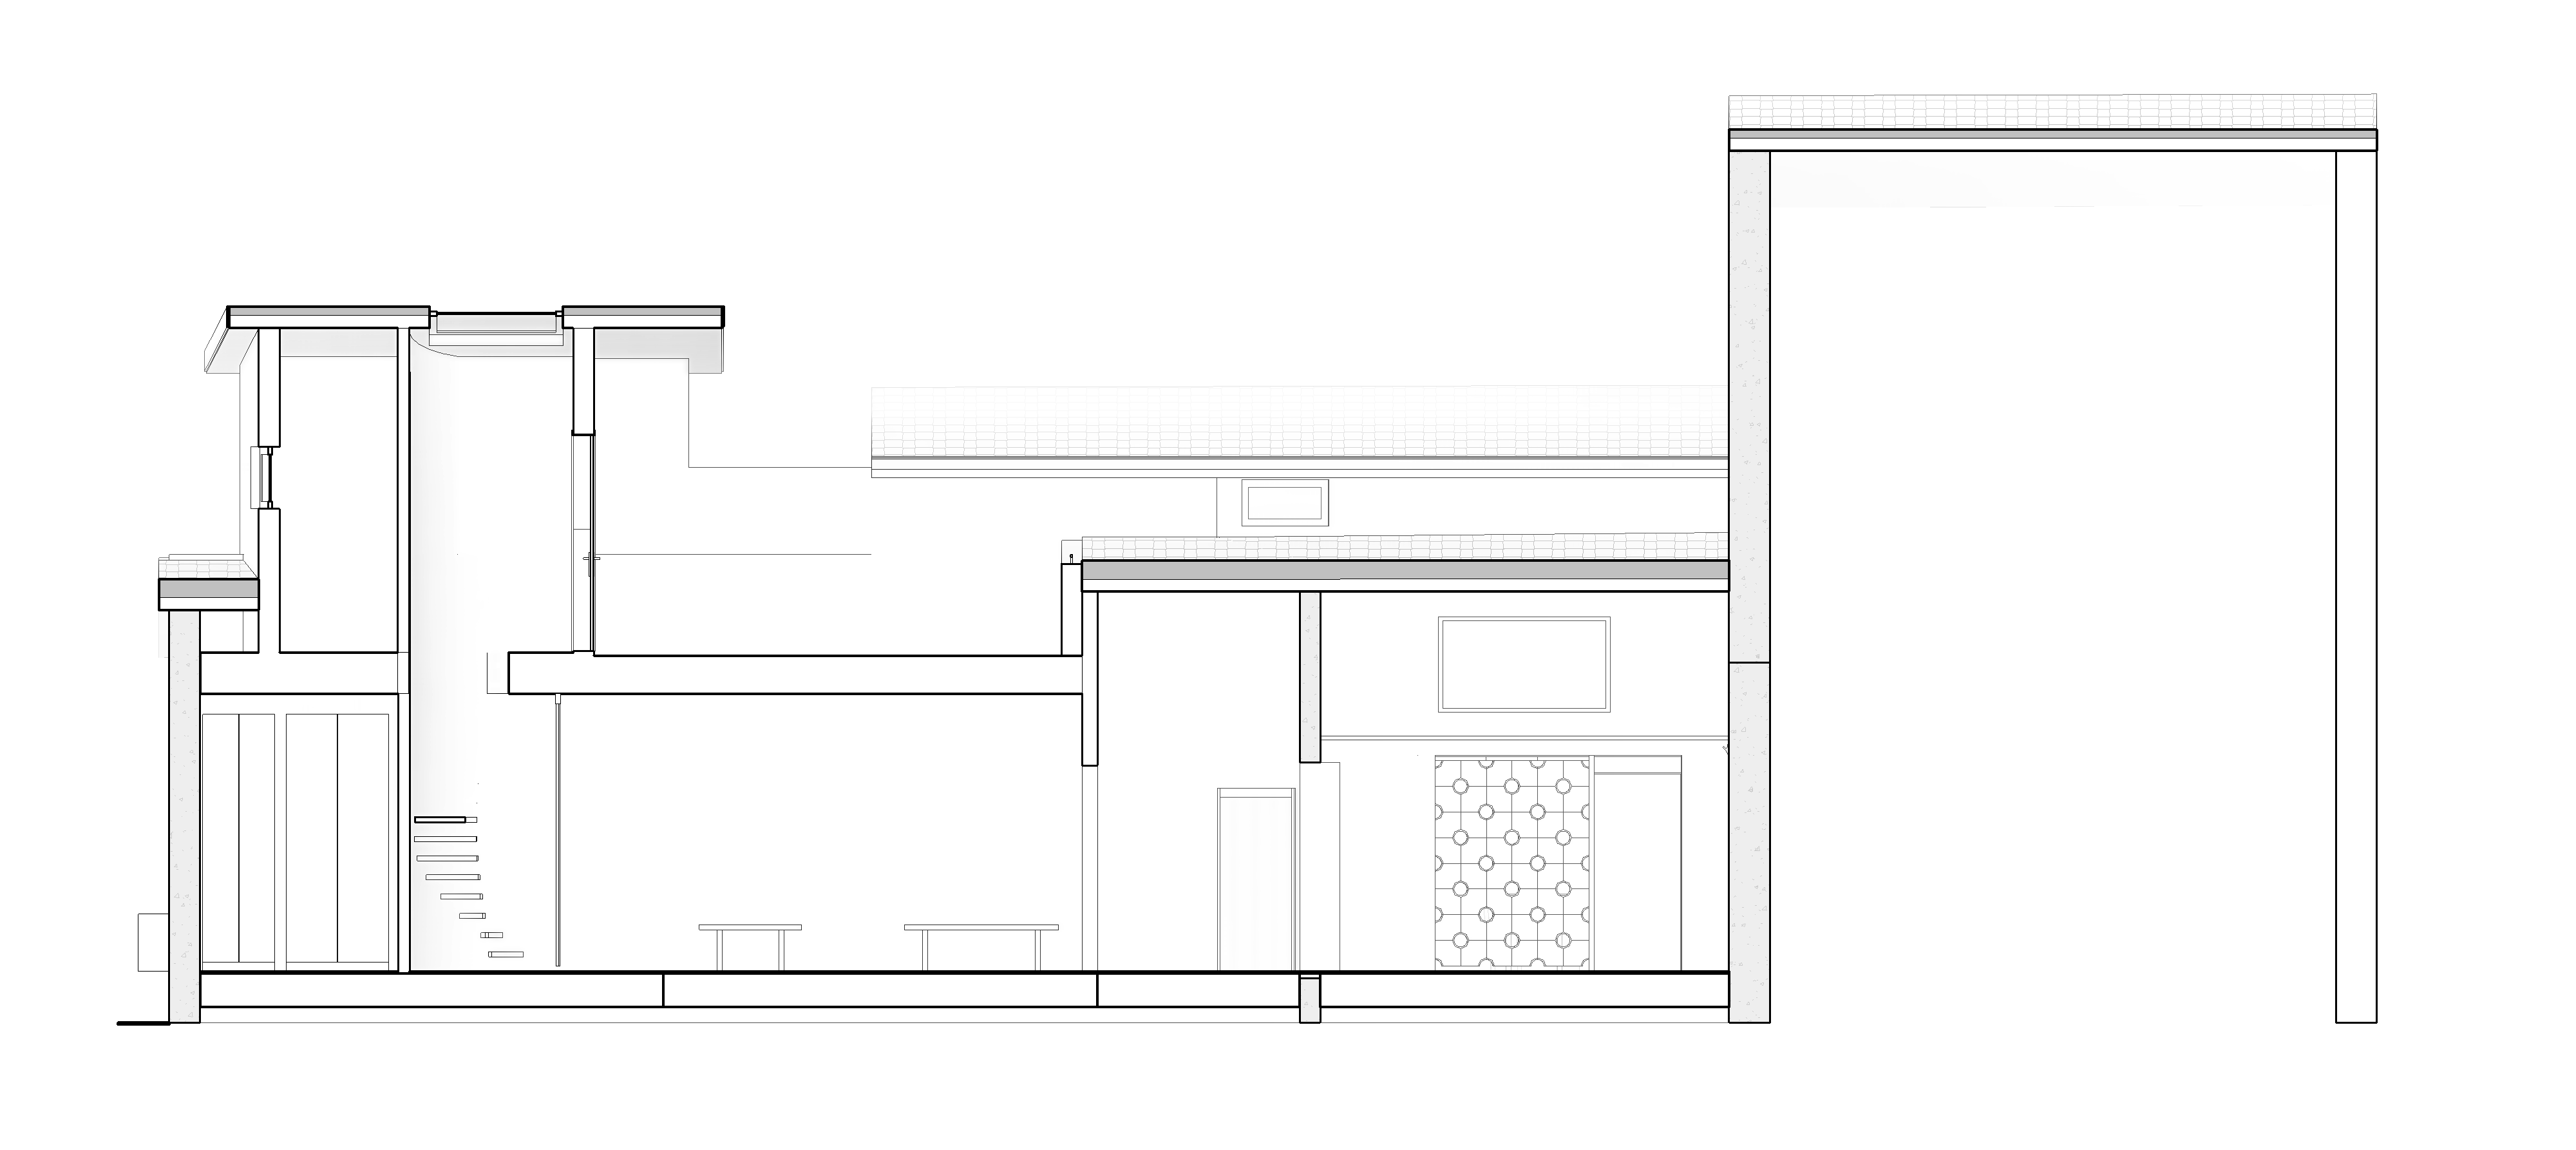
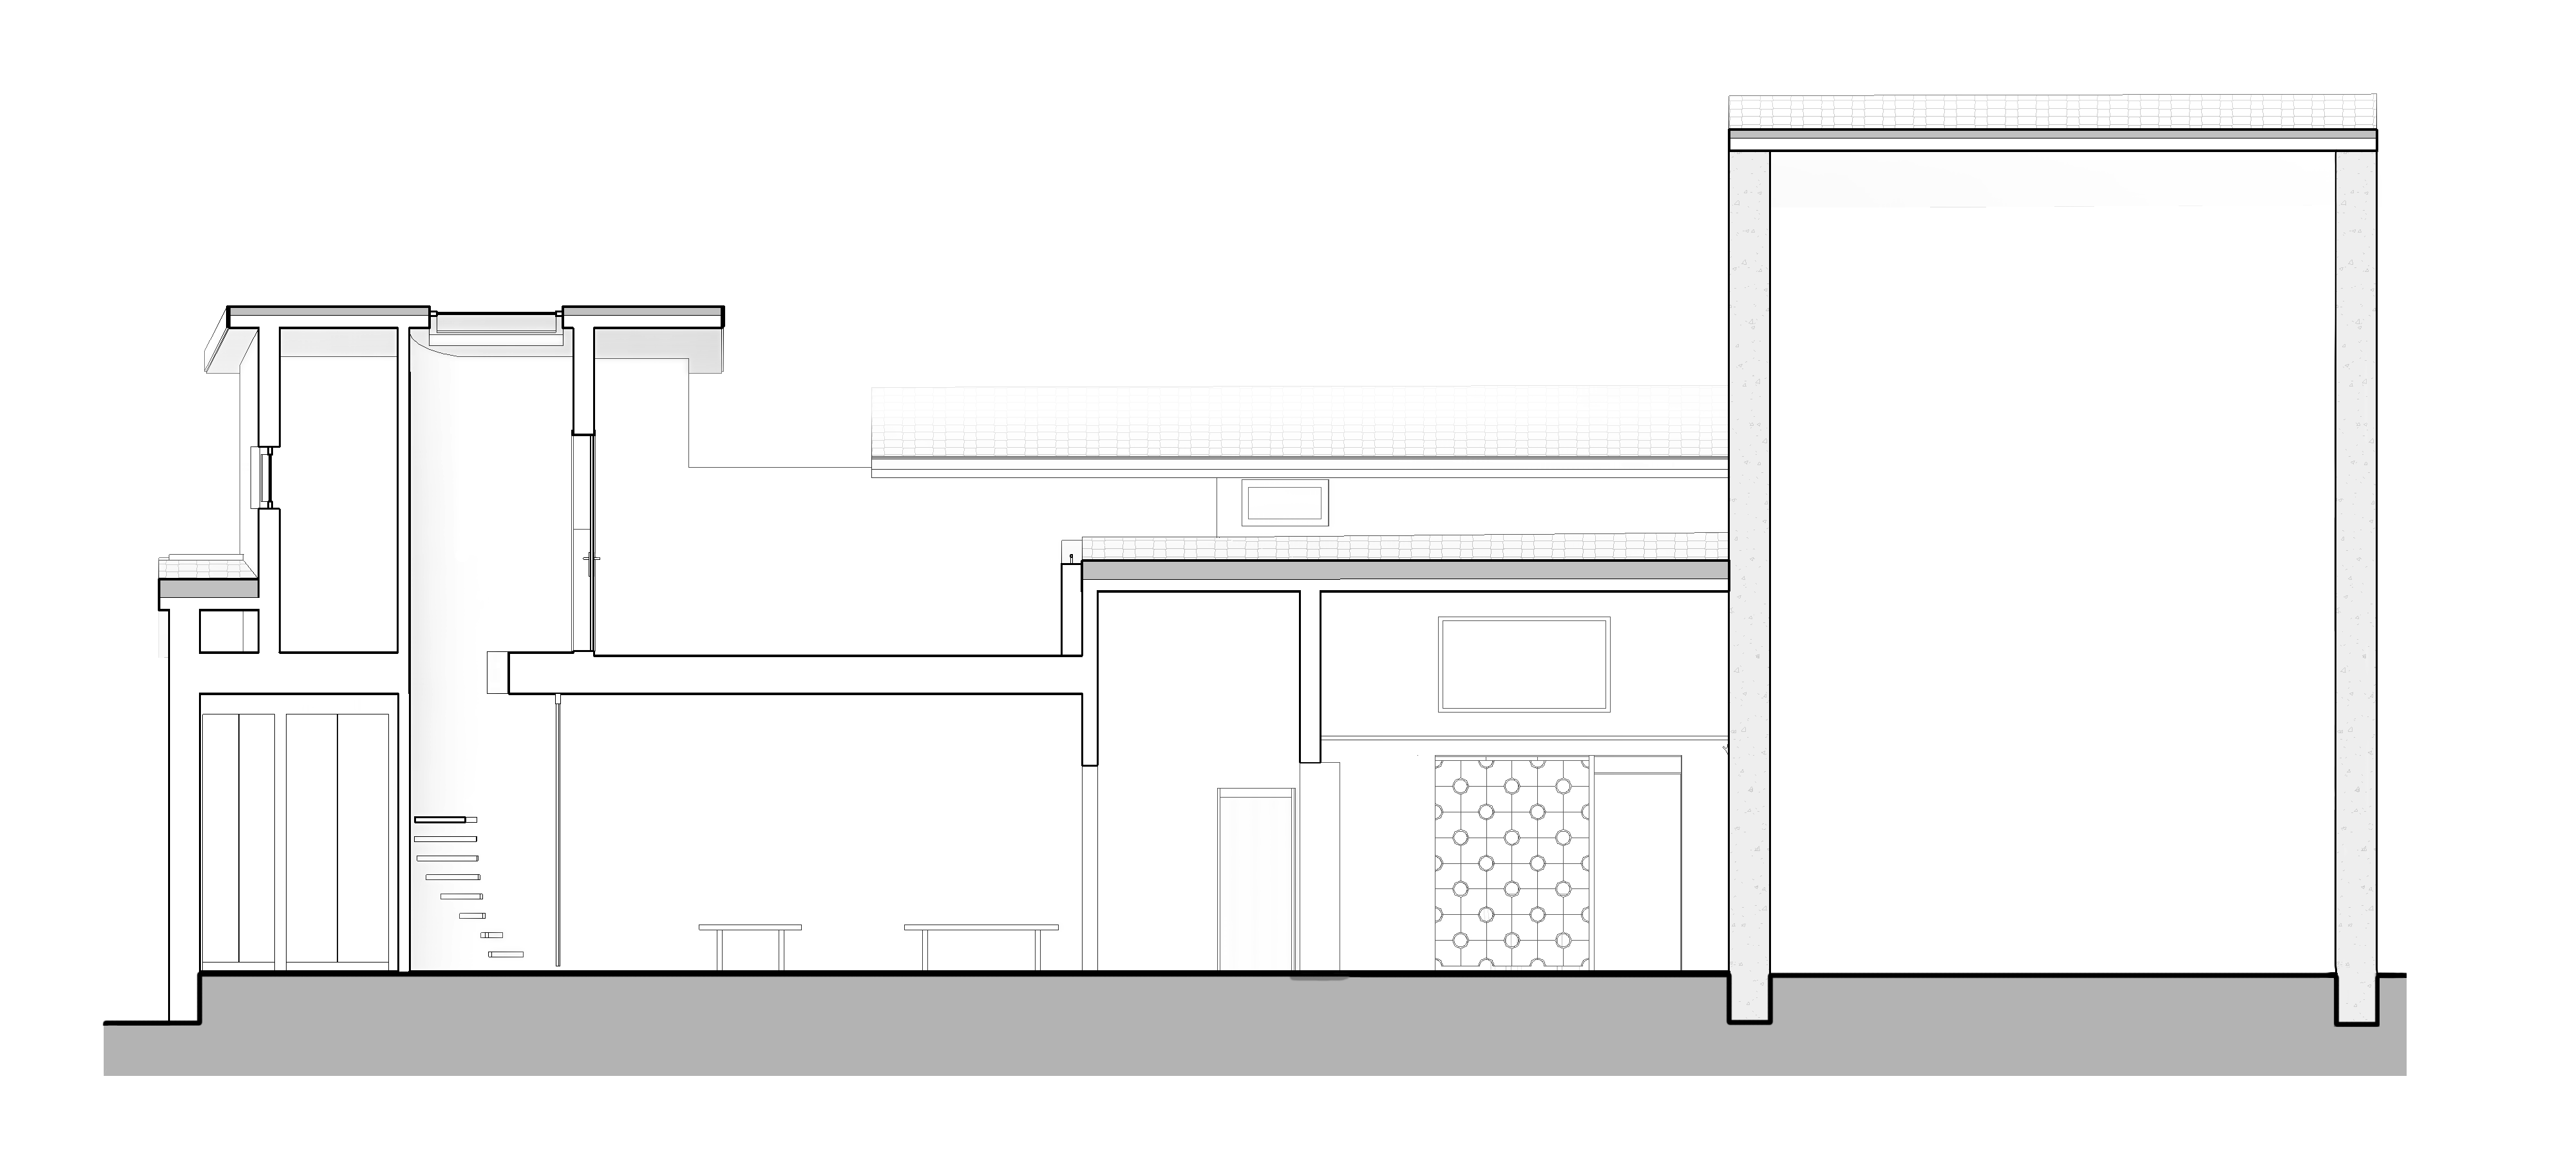
Add new renders and update sections - Maison Versilia
Aggiunti i render sala2 e matrimoniale accanto al salotto nella
galleria di progetto; aggiornati i tre disegni di sezione
(longitudinale, trasversale bagno, trasversale ingresso).

Changed region(s): [[0.0312, 0.8319, 0.9375, 0.9552]]

diff --git a/progetti/maison-versilia.html b/progetti/maison-versilia.html
@@ -349,6 +349,14 @@ nav_active: progetti
             <img src="../immagini/progetti/maison-versilia/progetto_rendering_salotto.png" alt="Rendering del soggiorno di progetto">
           </div>
 
+          <div class="gallery-item gallery-item--photo">
+            <img src="../immagini/progetti/maison-versilia/progetto_rendering_sala2.png" alt="Rendering della sala di progetto">
+          </div>
+
+          <div class="gallery-item gallery-item--photo">
+            <img src="../immagini/progetti/maison-versilia/progetto_rendering_matrimoniale.png" alt="Rendering della camera matrimoniale di progetto">
+          </div>
+
           <figure class="gallery-item gallery-doc">
             <img src="../immagini/progetti/maison-versilia/progetto_assonometria_nord.png" alt="Assonometria di progetto da nord">
             <figcaption>Assonometria &middot; Da nord</figcaption>